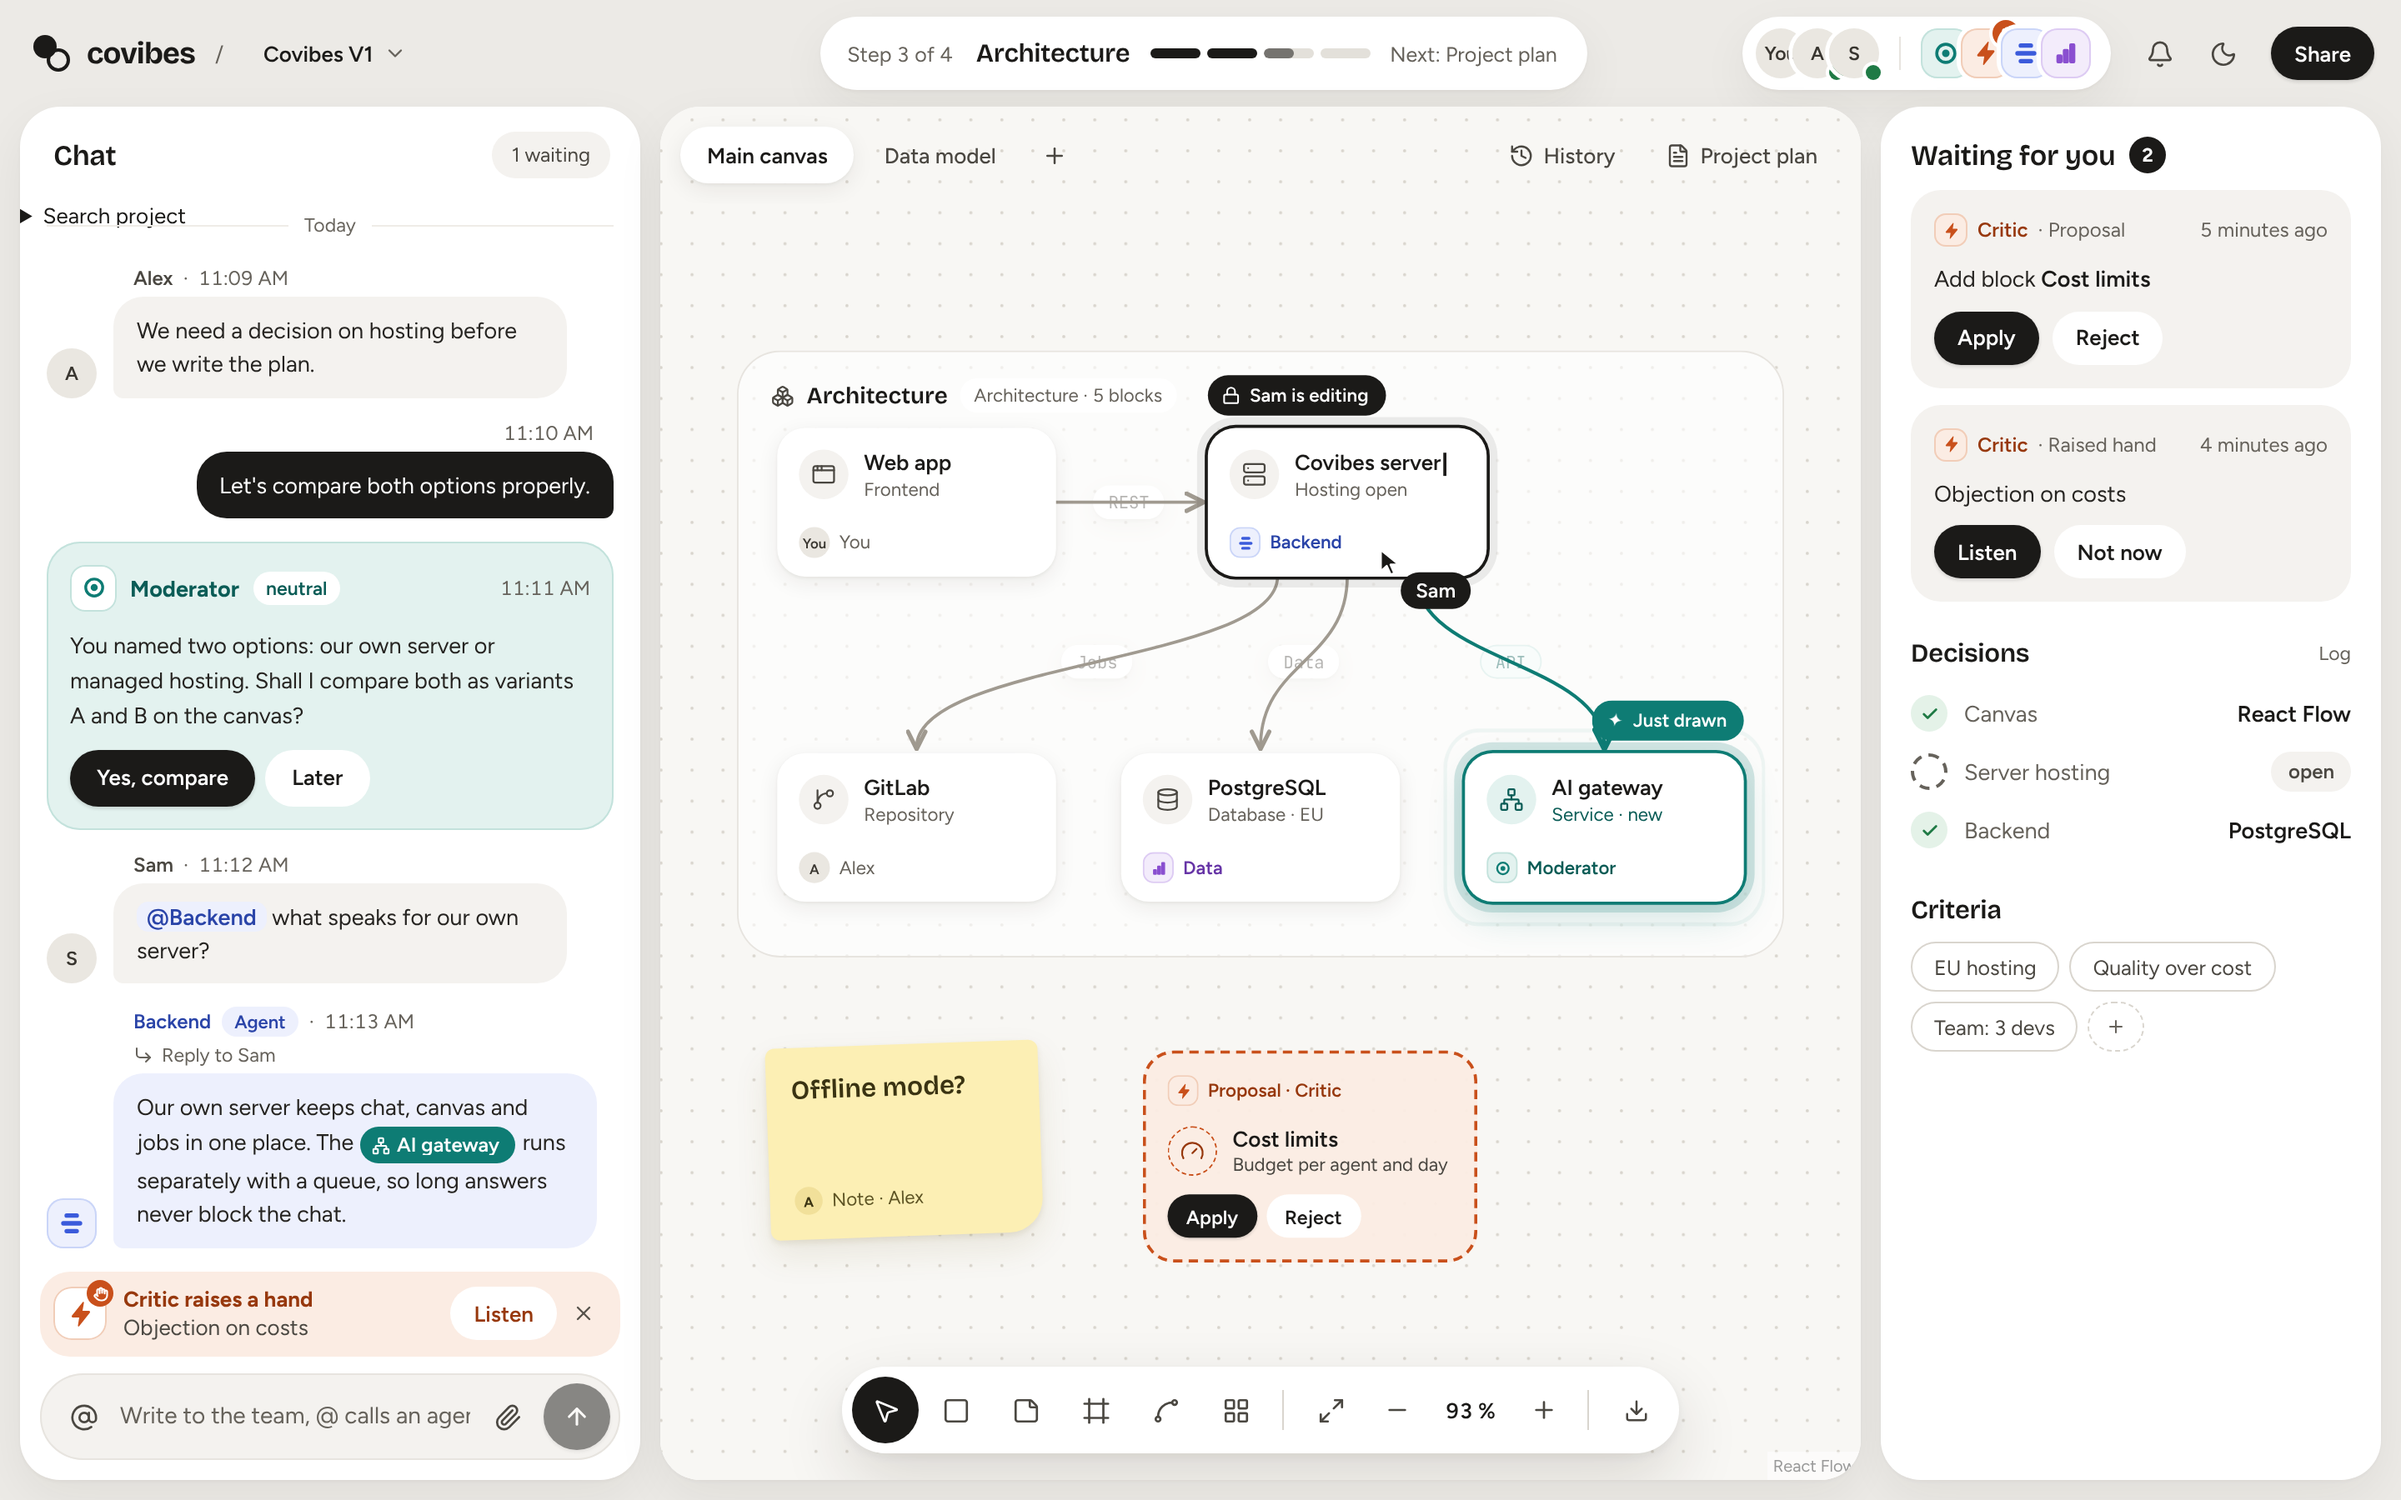
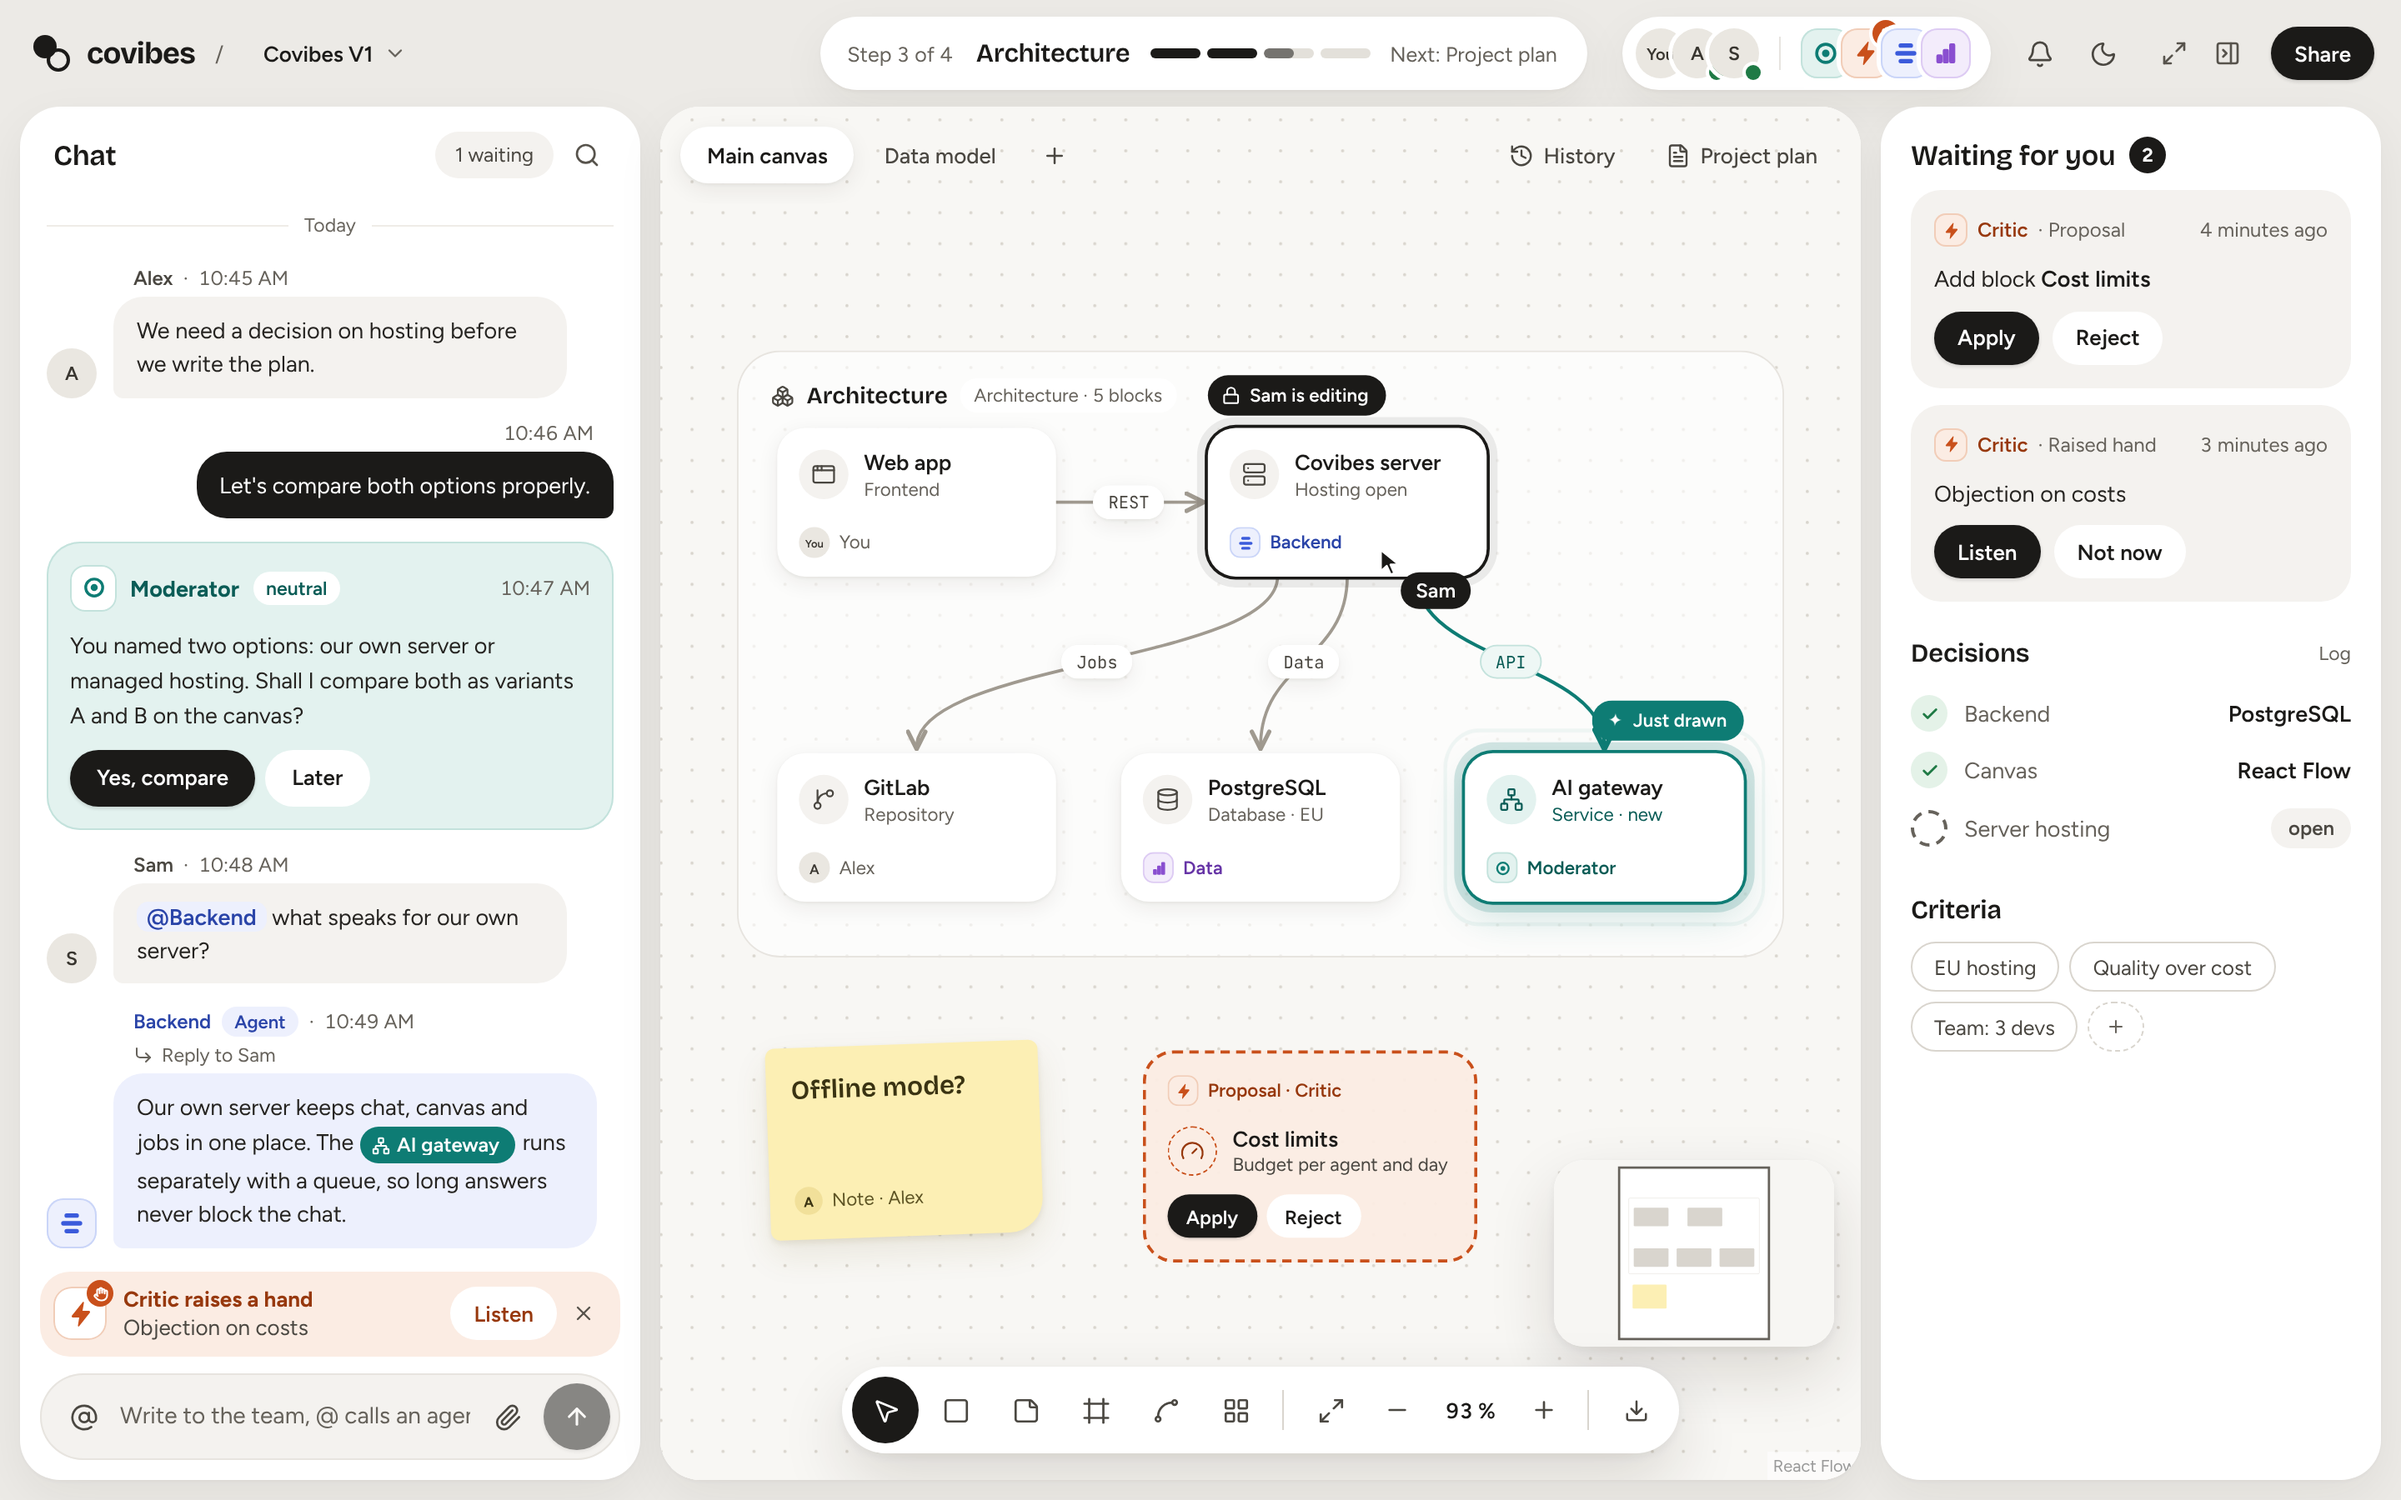
docs: refresh the repository media from the current interface
The screenshots, thumbnails, phone collages and the social preview show the interface with spec 56: the search in the chat header, arrow labels above their lines and the board overview in the Studio look, which no longer has to be hidden. The scene is seeded anew, so its times are recent.

diff --git a/docs/media/README.md b/docs/media/README.md
@@ -1,6 +1,6 @@
 # Covibes Studio media
 
-The screenshots show **Covibes V1**, the project of the approved Studio design scene, opened in the running application in the architecture phase. Alex, Sam and Robin plan together with the moderator and the backend, critic and data agents; the conversation, decisions, criteria, architecture board, proposal and plan belong to the same local project. The agent messages were seeded for the demonstration, and the board overview is hidden until it has the Studio styling.
+The screenshots show **Covibes V1**, the project of the approved Studio design scene, opened in the running application in the architecture phase. Alex, Sam and Robin plan together with the moderator and the backend, critic and data agents; the conversation, decisions, criteria, architecture board, proposal and plan belong to the same local project. The agent messages were seeded for the demonstration.
 
 | Asset | Size in pixels | Intended use |
 | --- | --- | --- |
